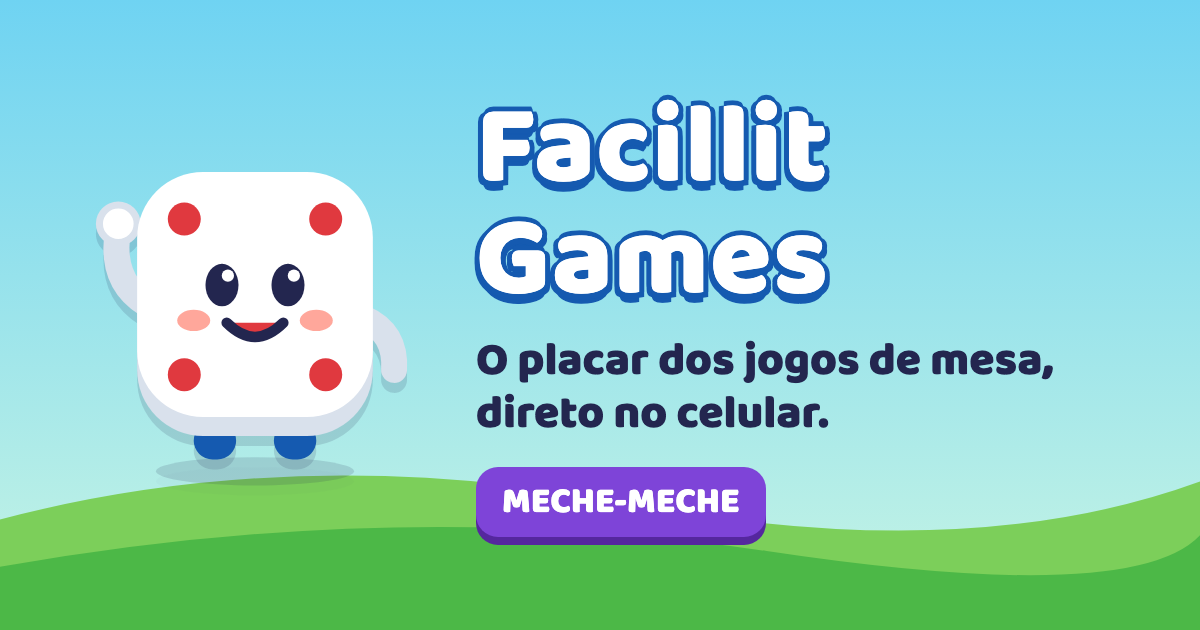
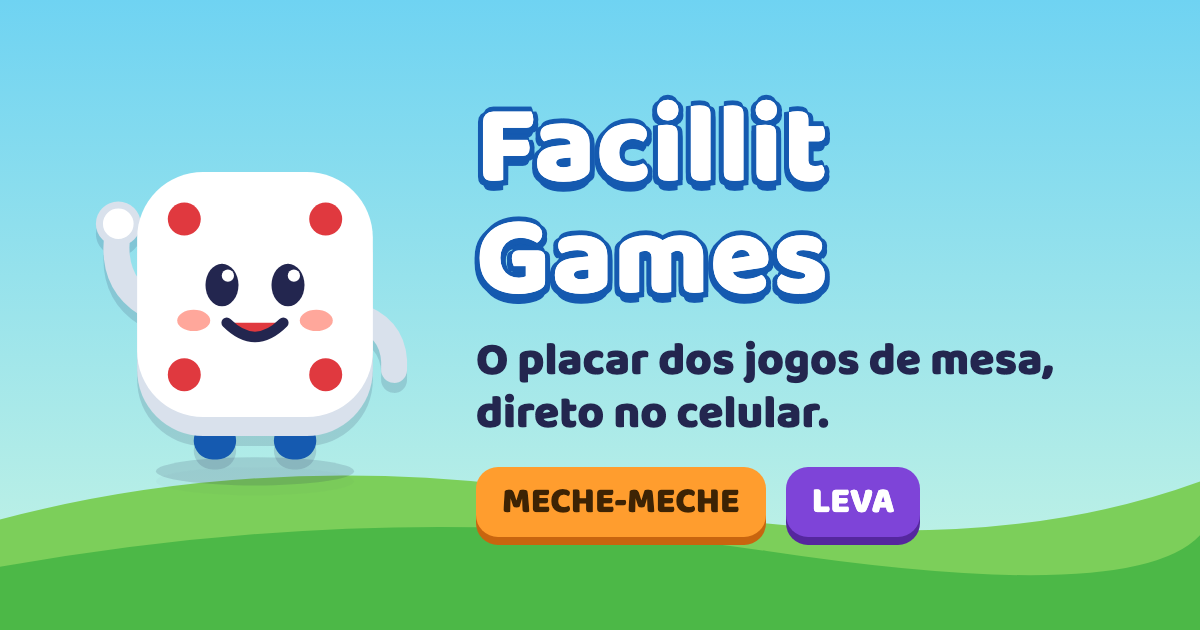
feat(ui): add LEVA to the link preview

Changed region(s): [[0.37, 0.7238, 0.7708, 0.8746]]

diff --git a/src/shell/ui/copy.ts b/src/shell/ui/copy.ts
@@ -61,8 +61,8 @@ export function positionCopy(position: number): string {
 
 /** Link previews and the browser's description (BaseLayout). */
 export const share = {
-  description: 'O placar dos jogos de mesa, direto no celular. Comece com o MECHE-MECHE.',
-  imageAlt: 'O mascote Dado ao lado do título Facillit Games e do jogo MECHE-MECHE.',
+  description: 'O placar dos jogos de mesa, direto no celular. Jogue MECHE-MECHE e LEVA.',
+  imageAlt: 'O mascote Dado ao lado do título Facillit Games e dos jogos MECHE-MECHE e LEVA.',
 } as const;
 
 /** Screen headings. The static-build guard checks none reaches the built HTML. */
